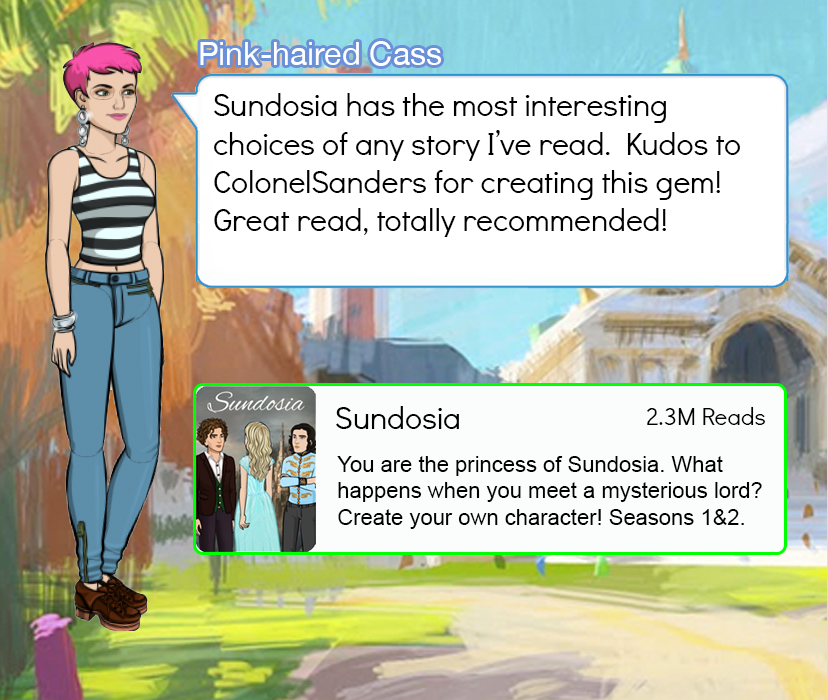
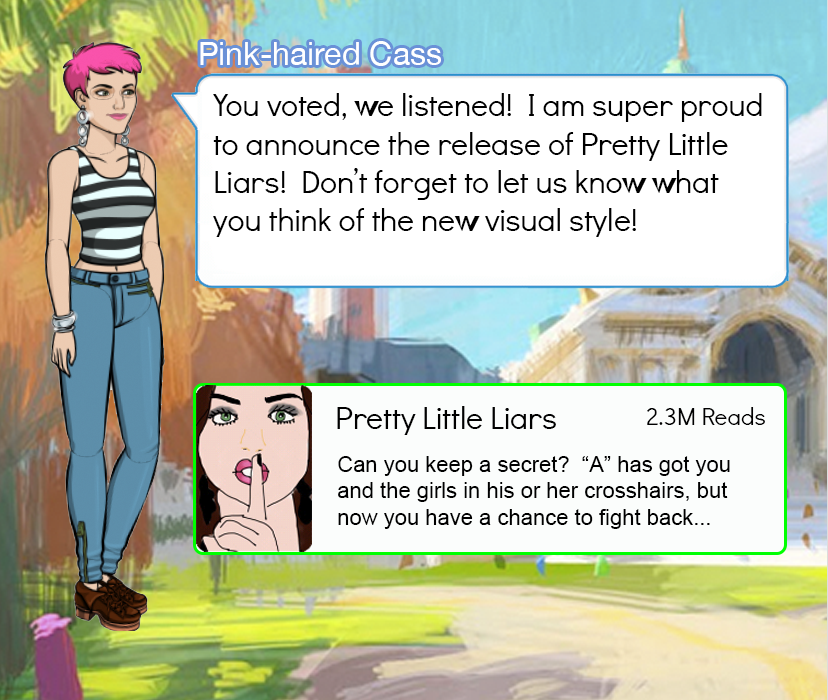
added three new feeds

Changed region(s): [[0.2415, 0.12, 0.936, 0.33], [0.2114, 0.54, 0.9058, 0.81]]

diff --git a/Model/GameModel.swift b/Model/GameModel.swift
@@ -70,6 +70,27 @@ class GameModel{
         feedLink.date = "Oct 24 2016"
         feedLink.imageName = "feedLink"
         
+        let feedUser = FeedData()
+        feedUser.mugshotName = "mugshotChristine"
+        feedUser.username = "Christine@Episode"
+        feedUser.mediaName = "Shoutout"
+        feedUser.date = "Oct 24 2016"
+        feedUser.imageName = "feedMessageUser"
+        
+        let feedAnnounce = FeedData()
+        feedAnnounce.mugshotName = "mugshotChristine"
+        feedAnnounce.username = "Christine@Episode"
+        feedAnnounce.mediaName = "Shoutout"
+        feedAnnounce.date = "Oct 24 2016"
+        feedAnnounce.imageName = "feedPicAnnouncement"
+
+        let feedPicSurvey = FeedData()
+        feedPicSurvey.mugshotName = "mugshotColonelSanders"
+        feedPicSurvey.username = "ColonelSanders"
+        feedPicSurvey.mediaName = "Picture"
+        feedPicSurvey.date = "Oct 24 2016"
+        feedPicSurvey.imageName = "feedPicSurvey"
+        
         let feedScreenCapture = FeedData()
         feedScreenCapture.mugshotName = "mugshotCass"
         feedScreenCapture.username = "Pink-Haired Cass"
@@ -93,12 +114,12 @@ class GameModel{
         feedShort.imageName = "feedShort"
         feedShort.showPlayButton = true
         
-        let feedDatas = [feedDataVideo, feedRec, feedCollab, feedLink, feedScreenCapture, feedSceneCapture,feedShort]
+        let feedDatas = [feedDataVideo, feedRec, feedCollab, feedLink, feedUser, feedAnnounce, feedPicSurvey, feedScreenCapture, feedSceneCapture,feedShort]
         return feedDatas
     }
     func getCommentThread(id:String) -> [CommentData] {
         switch(id){
-        case "portal":
+        case "story":
             let comment1 = CommentData()
             comment1.mugshotImageName = "mugshotCass"
             comment1.username = "Pink-Haired Cass"
@@ -110,7 +131,7 @@ class GameModel{
             comment2.comment = "But what are relationships w/o TRUST?"
         
             return [comment1, comment2]
-        case "story":
+        case "profile":
             let comment0 = CommentData()
             comment0.mugshotImageName = "mugshotColonelSanders"
             comment0.username = "Colonel Sanders"
@@ -132,6 +153,23 @@ class GameModel{
             comment2.comment = "MAKE AMERICA GREAT AGAIN!"
             
             return [comment0, comment1, comment1b, comment2]
+        case "portal":
+            let comment0 = CommentData()
+            comment0.mugshotImageName = "mugshotMax"
+            comment0.username = "Maximoose"
+            comment0.comment = "The ability to whine without being judged!"
+            
+            let comment1 = CommentData()
+            comment1.mugshotImageName = "mugshotChristine"
+            comment1.username = "Goth Girl"
+            comment1.comment = "The power to love again."
+            
+            let comment2 = CommentData()
+            comment2.mugshotImageName = "mugshotColonelSanders"
+            comment2.username = "Colonel Sanders"
+            comment2.comment = "LASER BEAM EYES!"
+            
+            return [comment0, comment1, comment2]
         default:
             return []
         }
